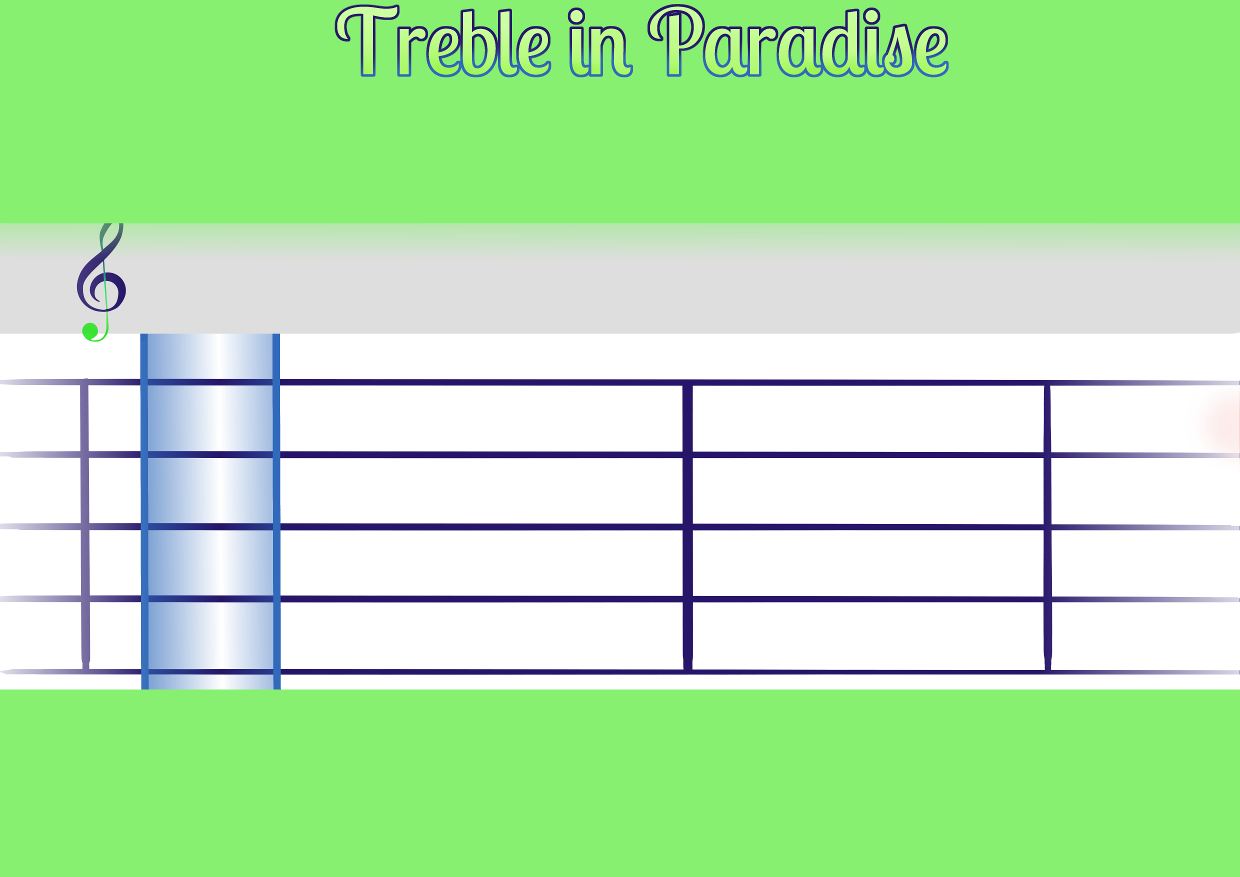
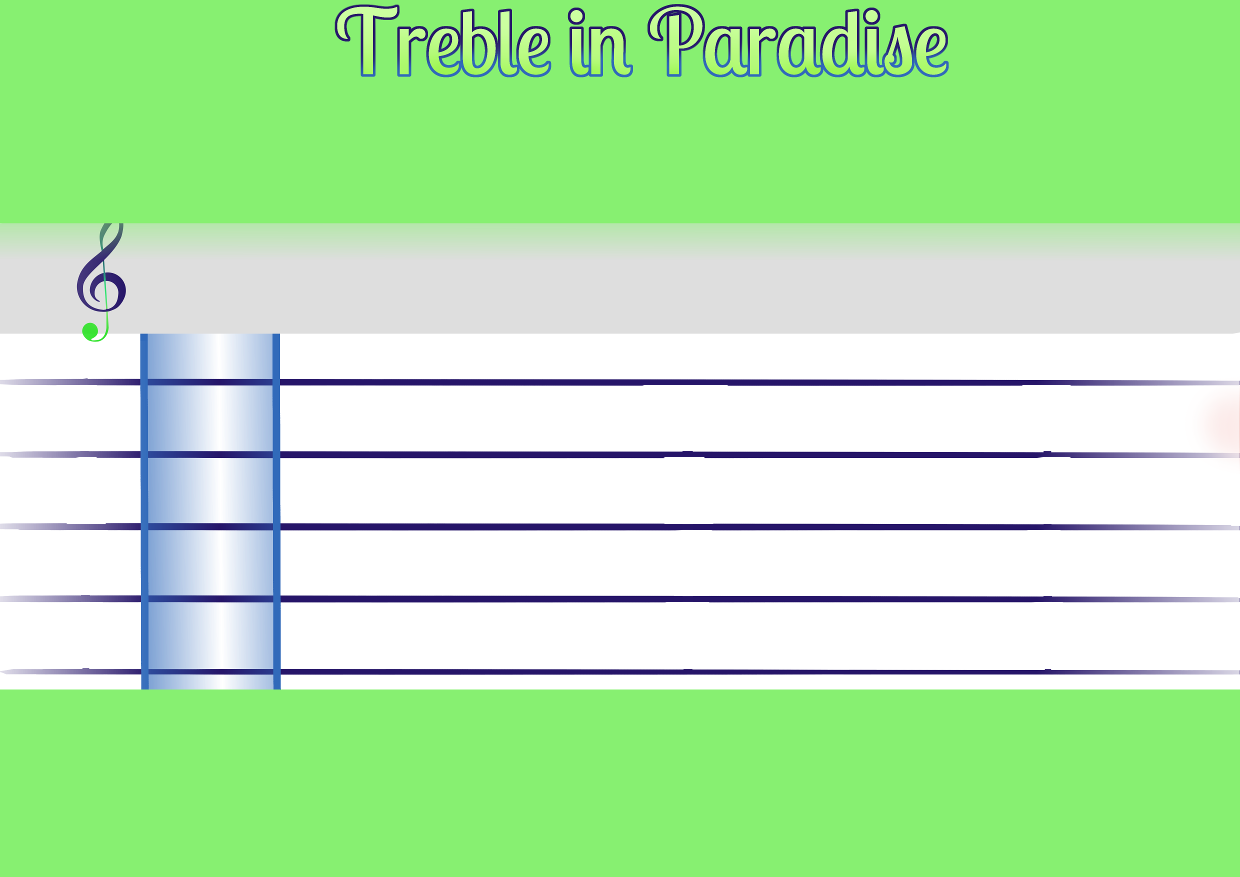
made a series of still notes display on level one.

Changed region(s): [[0.8274, 0.431, 0.8581, 0.7697], [0.5516, 0.431, 0.5823, 0.7697], [0.0613, 0.431, 0.0919, 0.7697]]

diff --git a/src/Game.java b/src/Game.java
@@ -3,6 +3,7 @@ import javax.swing.ImageIcon;
 import javax.swing.JButton;
 import javax.swing.JFrame;
 import javax.swing.JLabel;
+import javax.swing.JLayeredPane;
 import javax.swing.JPanel;
 import javax.swing.JTextField;
 import java.awt.Graphics;
@@ -10,27 +11,59 @@ import java.awt.Image;
 import java.util.ArrayList;
 
 public class Game {
+
+	private ArrayList<Note> Tune;
+
+	public Game(int level) {
+		Tune = new ArrayList<Note>();
+		if (level == 1) {
+			Tune.add(new Note("b", 1));
+			Tune.add(new Note("a", 1));
+			Tune.add(new Note("g", 1));
+			Tune.add(new Note("g", 1));
+			Tune.add(new Note("b", 1));
+			Tune.add(new Note("a", 1));
+			Tune.add(new Note("g", 1));
+			Tune.add(new Note("g", 1));
+		}
+	};
+
+	public void display(ImagePanel background) {
+		int x = 100;
+
+		for (int i = 0; i<Tune.size(); i++) {
+			ImagePanel currentNote = Tune.get(i).noteImg;
+			currentNote.setLocation(x, Tune.get(i).height);
+			currentNote.setVisible(true);
+			background.add(currentNote);
+			x += 200;
+		}
+
+	};
+
+	private void play() {};
+	
 	//class for each note image flying by.
 	private class Note {
 		public String tone;
 		int beats;
-		private ImagePanel noteImg;
+		int height;
+		public ImagePanel noteImg;
 		public Note(String t, int b) {
 			tone = t;
 			beats = b;
 			if (beats == 1){
 				noteImg = new ImagePanel(new ImageIcon("assets"+File.separator+"img"+File.separator+"quarterNote.png").getImage());
+				noteImg.setVisible(false);
 			} else if (beats == 2) {
 				noteImg = new ImagePanel(new ImageIcon("assets"+File.separator+"img"+File.separator+"halfNote.png").getImage());
+				noteImg.setVisible(false);
 			}
 
+			if (tone.equals("b")) {height = 385;}
+			if (tone.equals("a")) {height = 415;}
+			if (tone.equals("g")) {height = 445;}
 		}
 	}
-
-	private ArrayList<Note> Tune;
-
-	public Game(int level) {
-	};
-	
 
 };

diff --git a/src/TrebleInParadise.java b/src/TrebleInParadise.java
@@ -178,6 +178,7 @@ public class TrebleInParadise {
 		
 		level1Panel.setVisible(true);
 		Game currentRound = new Game(1);
+		currentRound.display(level1Panel);
 		
 		logoutBtn.addActionListener(new ActionListener() {
 			public void actionPerformed(ActionEvent e) {
